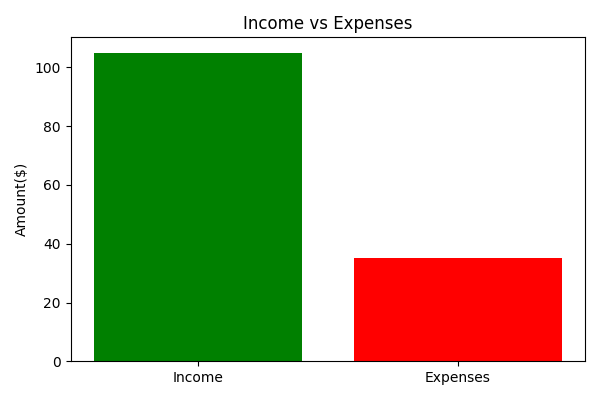
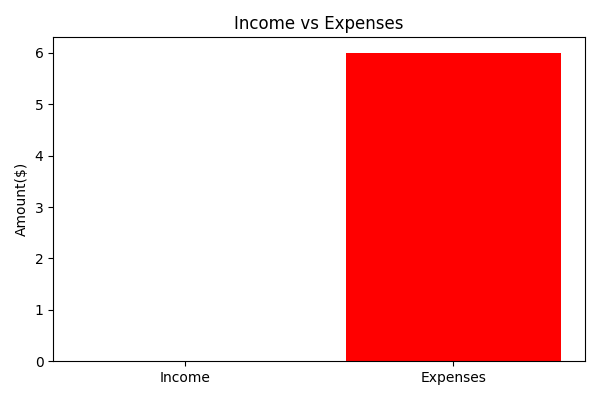
update

diff --git a/templates/income_expense.html b/templates/income_expense.html
@@ -31,5 +31,19 @@
         <input type="number" name="savings_goal" id="savings_goal" required>
         <button type="submit">Set Savings Goal</button>
     </form>    
+
+    <h1>Recurring expenses</h1>
+    <form action = "/recurring_expenses" method = "post">
+        <label for="category">Category</label>
+        <input type="text" name="category" id="category" required>
+        <label for="amount">Amount</label>
+        <input type="number" name="amount" id="amount" required>
+        <label for="frequency">Frequency</label>
+        <select name="frequency" id="frequency">
+            <option value="monthly">Monthly</option>
+            <option value="weekly">Weekly</option>
+        </select>
+        <button type="submit">Add recurring expense</button>
+    </form>
 </body>
 </html>

diff --git a/templates/report.html b/templates/report.html
@@ -1,0 +1,16 @@
+<!DOCTYPE html>
+<html lang="en">
+    <head>
+        <meta charset="UTF-8">
+        <meta name="viewport" content="width=device-width, initial-scale=1.0">
+        <title>Generate Financial Report</title>
+    </head>
+    <body>
+        <h1>Generate Financial Report</h1>
+        <p>Download a detailed PDF report of your financial data, including income, expenses, and savings.</p>
+        <a href="/create_report" target="_blank">
+            <button>Download Financial Report</button></a>
+        
+    </body>
+    </html>
+</html>

diff --git a/templates/home.html b/templates/home.html
@@ -11,8 +11,10 @@
         <p>Here you can manage your finances and reach your investment goals.</p>
             <nav>
                 <ul>
+                    <li><a href="/home">Home</a></li>
                     <li><a href="/dashboard">Dashboard</a></li>
                     <li><a href="/input">Add Income/Expenses</a></li>
+                    <li><a href="/report">Generate Report</a></li>
                 </ul>
             </nav>
     </body>

diff --git a/templates/dashboard.html b/templates/dashboard.html
@@ -45,6 +45,7 @@
          {% else %}
          <p>No data to show</p>
         {% endif %}
+        
         <h2>Expense breakdown</h2>
         <table border="1">
             <thead>

diff --git a/app.py b/app.py
@@ -3,6 +3,9 @@ import sqlite3
 from helpers import init_db
 import matplotlib.pyplot as plt
 import os
+from flask import send_file
+from reportlab.lib.pagesizes import letter
+from reportlab.pdfgen import canvas
 
 app = Flask(__name__)
 init_db()
@@ -17,37 +20,51 @@ def input_form():
 
 @app.route("/savings_goal", methods=["POST"])
 def savings_goal():
-    savings_goal= float(request.form.get("savings_goal"))
-    conn=sqlite3.connect("database.db")
-    cursor=conn.cursor()
-    cursor.execute("INSERT OR REPLACE INTO savings_goal(id,amount) VALUES(?,?)",(1, savings_goal))
-    conn.commit()
-    conn.close()
-    return redirect("/dashboard")
+    try:
+        savings_goal= float(request.form.get("savings_goal"))
+        if savings_goal <=0:
+            raise ValueError("Savings goal must be a positive number!")
+        conn=sqlite3.connect("database.db")
+        cursor=conn.cursor()
+        cursor.execute("INSERT OR REPLACE INTO savings_goal(id,amount) VALUES(?,?)",(1, savings_goal))
+        conn.commit()
+        conn.close()
+        return redirect("/dashboard")
+    except ValueError as e:
+        return f"<h1>Error: {str(e)}</h1><a href='/input'>Go back</a>", 400
 
 @app.route("/add_income", methods=["POST"])
 def add_income():
-    income = request.form["income"]
-    date = request.form["income_date"]
-    conn = sqlite3.connect("database.db")
-    cursor = conn.cursor()
-    cursor.execute("INSERT INTO income (amount, date) VALUES (?, ?)", (income, date))
-    conn.commit()
-    conn.close()
-    return redirect("/input")
+    try:
+        income = float(request.form["income"])
+        if income < 0:
+            raise ValueError("Income must be a positive number")
+        date = request.form["income_date"]
+        conn = sqlite3.connect("database.db")
+        cursor = conn.cursor()
+        cursor.execute("INSERT INTO income (amount, date) VALUES (?, ?)", (income, date))
+        conn.commit()
+        conn.close()
+        return redirect("/input")
+    except ValueError as e:
+        return f"<h1>Error: {str(e)}</h1><a href='/input'>Go back</a>"
 
 @app.route("/add_expense", methods=["POST"])
 def add_expense():
-    category = request.form["category"]
-    expense = request.form["expense"]
-    date = request.form["expense_date"]
-    conn = sqlite3.connect("database.db")
-    cursor = conn.cursor()
-    cursor.execute("INSERT INTO expenses (category, amount, date) VALUES (?, ?, ?)", (category, expense, date))
-    conn.commit()
-    conn.close()
-    return redirect("/input")
-
+    try:
+        expense = float(request.form["expense"])
+        if expense < 0:
+            raise ValueError("Expense must be a positive number")
+        category = request.form["category"]
+        date = request.form["expense_date"]
+        conn = sqlite3.connect("database.db")
+        cursor = conn.cursor()
+        cursor.execute("INSERT INTO expenses (category, amount, date) VALUES (?, ?, ?)", (category, expense, date))
+        conn.commit()
+        conn.close()
+        return redirect("/input")
+    except ValueError as e:
+        return f"<h1>Error: {str(e)}</h1><a href='/input'>Go back</a>"
 @app.route("/dashboard")
 def dashboard():
     conn = sqlite3.connect("database.db")
@@ -63,11 +80,13 @@ def dashboard():
     total_savings = total_income - total_expenses
 
     suggestions= []
-    if total_savings < savings_goal:
+    if total_income == 0 and total_expenses == 0:
+        suggestions.append("No data to show.")
+    elif total_savings < savings_goal:
         deficit = savings_goal - total_savings
-        suggestions.append(f"You are ${deficit:.2f} short of your savings goal! Maybe you should consider mitigating your expenses.")
+        suggestions.append(f"You are ${deficit:.2f} short of your savings goal! Maybe you should consider reducing your expenses.")
     else:
-        suggestions.append(f"You are doing a great job meeting your savings goal of {savings_goal}!")
+        suggestions.append(f"You are doing a great job meeting your savings goal of ${savings_goal}!")
 
     cursor.execute("SELECT category, SUM(amount) FROM expenses GROUP BY category")
     expense_summary= {row[0]: row[1] for row in cursor.fetchall()}
@@ -88,24 +107,68 @@ def dashboard():
     else:
         chart_path= None
 
-    plt.figure(figsize=(6,4))
-    categories = ["Income","Expenses"]
-    amounts = [total_income, total_expenses]
-    plt.bar(categories, amounts, color=(["green","red"]))
-    plt.title("Income vs Expenses")
-    plt.ylabel("Amount($)")
-    plt.tight_layout()
+    if total_income == 0 and total_expenses == 0:
+        bar_chart_path = None
+    else:
+        plt.figure(figsize=(6,4))
+        categories = ["Income","Expenses"]
+        amounts = [total_income, total_expenses]
+        plt.bar(categories, amounts, color=(["green","red"]))
+        plt.title("Income vs Expenses")
+        plt.ylabel("Amount($)")
+        plt.tight_layout()
 
-    bar_chart_path = os.path.join("static", "income_vs_expenses.png")
-    if os.path.exists(bar_chart_path):
-        os.remove(bar_chart_path)
-    plt.savefig(bar_chart_path)
-    plt.close()
+        bar_chart_path = os.path.join("static", "income_vs_expenses.png")
+        if os.path.exists(bar_chart_path):
+            os.remove(bar_chart_path)
+        plt.savefig(bar_chart_path)
+        plt.close()
 
     return render_template("dashboard.html", savings_goal=savings_goal, suggestions = suggestions, total_income=total_income,total_expenses=total_expenses, total_savings=total_savings, expense_summary=expense_summary, chart_path=chart_path, bar_chart_path=bar_chart_path)
 
 
 
+@app.route("/report")
+def report_page():
+    return render_template("report.html")
+
+
+@app.route("/create_report")
+def create_report():
+    report_path = "static/financial_report.pdf"
+    conn = sqlite3.connect("database.db")
+    cursor = conn.cursor()
+    
+    cursor.execute("SELECT sum(amount) FROM income")
+    total_income = cursor.fetchone()[0] or 0
+
+    cursor.execute("SELECT SUM(amount) FROM expenses")
+    total_expenses= cursor.fetchone()[0] or 0
+
+    cursor.execute('SELECT amount FROM savings_goal WHERE id = 1')
+    savings_goal = cursor.fetchone()
+    savings_goal = savings_goal[0] if savings_goal else 0
+
+    total_savings = total_income - total_expenses
+    cursor.execute("SELECT category, SUM(amount) FROM expenses GROUP BY category")
+    expense_summary = cursor.fetchall()
+    conn.close()
+
+    c = canvas.Canvas(report_path, pagesize=letter)
+    c.setFont("Helvetica", 12)
+    c.drawString(100, 750, "Financial Report")
+    c.drawString(50, 700, f"Total Income: ${total_income:.2f}")
+    c.drawString(50, 680, f"Total Expenses: ${total_expenses:.2f}")
+    c.drawString(50, 660, f"Remaining Savings: ${total_savings:.2f}")
+    c.drawString(50, 640, f"Savings Goal: ${savings_goal:.2f}")
+    c.drawString(50, 600, "Expense Breakdown by Category:")
+    y = 580
+    for category, amount in expense_summary:
+        c.drawString(70, y, f"{category}: ${amount:.2f}")
+        y -= 20
+        
+    c.save()
+    return send_file(report_path, as_attachment=True)
 
 
 
